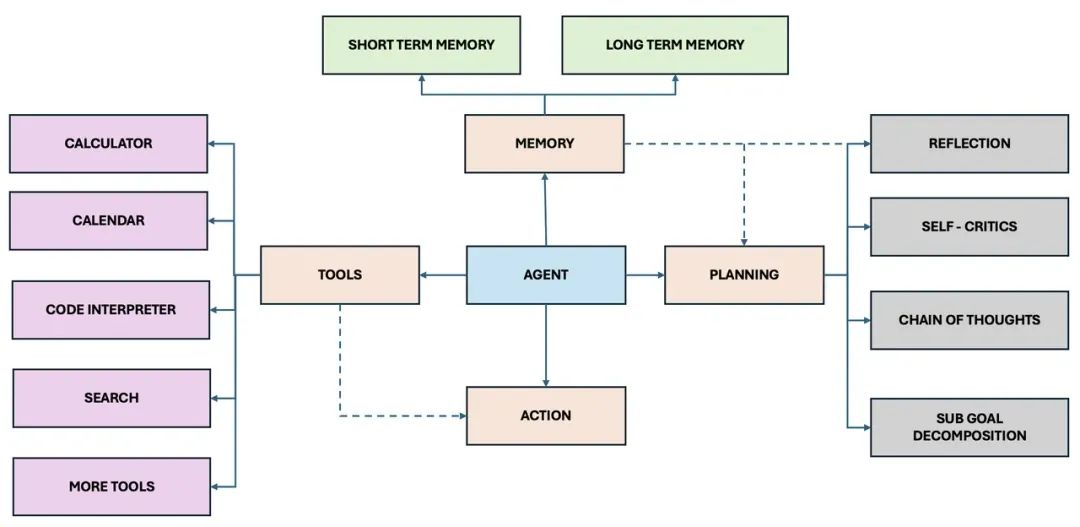
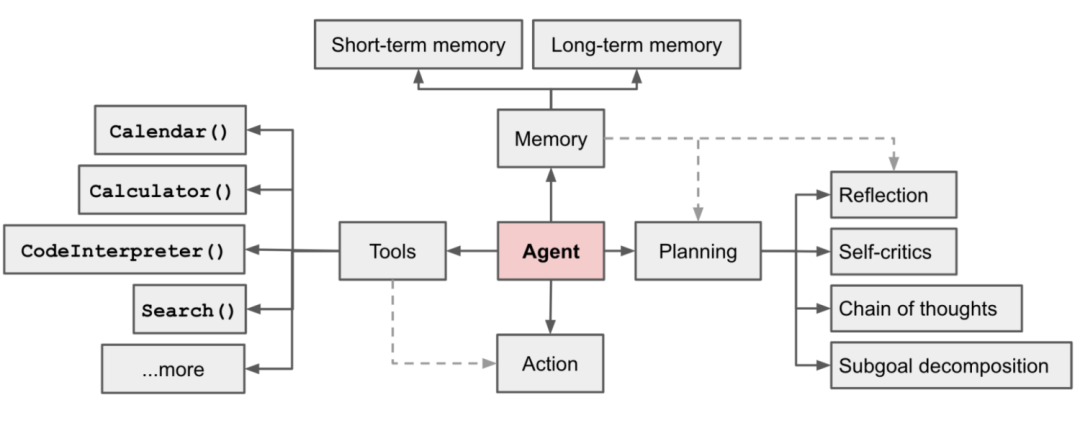
GITBOOK-10: No subject

diff --git a/AI/browser-use.md b/AI/browser-use.md
@@ -1,0 +1,55 @@
+# Browser Use
+
+* **GitHub**: [browser-use/browser-use](https://github.com/browser-use/browser-use)
+* **官网**: [browser-use.com](https://browser-use.com/)
+* **文档**: [docs.browser-use.com](https://docs.browser-use.com/introduction)
+
+{% hint style="success" %}
+将 Agents 与真实浏览器进行交互，轻松实现浏览器自动化
+{% endhint %}
+
+<figure><img src=".gitbook/assets/image.png" alt="" width="375"><figcaption></figcaption></figure>
+
+## Environment
+
+> python ≥ 3.11
+
+```sh
+pip install browser-use
+```
+
+```
+playwright install
+```
+
+编辑.env文件
+
+```
+OPENAI_API_KEY=...
+ANTHROPIC_API_KEY=...
+```
+
+## Demo
+
+```
+import asyncio
+
+from langchain_openai import ChatOpenAI
+from browser_use import Agent
+from dotenv import load_dotenv
+
+load_dotenv()
+
+llm = ChatOpenAI(model="gpt-4o")
+
+async def main():
+    agent = Agent(
+        task="打开 https://google.com，搜索browser use并找到它的官网",
+        llm=llm,
+    )
+    result = await agent.run()
+    print(result)
+
+if __name__ == "__main__":
+    asyncio.run(main())
+```

diff --git a/AI/agent/agent.md b/AI/agent/agent.md
@@ -41,7 +41,7 @@ $$
 Agent = LLM + 规划 + 记忆 +工具使用
 $$
 
-<figure><img src="../.gitbook/assets/image (1).png" alt=""><figcaption></figcaption></figure>
+<figure><img src="../.gitbook/assets/image (1) (1).png" alt=""><figcaption></figcaption></figure>
 
 * **规划（Planning）：**&#x4E3B;要包括**子目标分解、反思与改进**
 * **记忆（Memory）：**&#x5206;为**短期记忆**和**长期记忆**

diff --git a/AI/SUMMARY.md b/AI/SUMMARY.md
@@ -12,7 +12,7 @@
 
 ***
 
-* [Agent训练](agent-xun-lian.md)
+* [Browser Use](browser-use.md)
 
 ## Image
 
